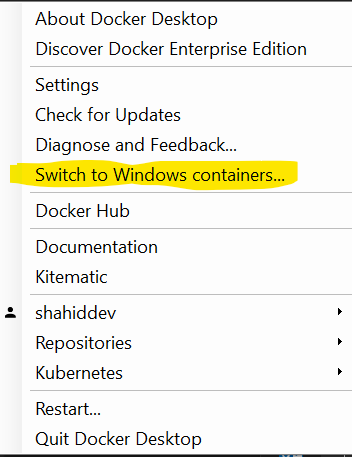
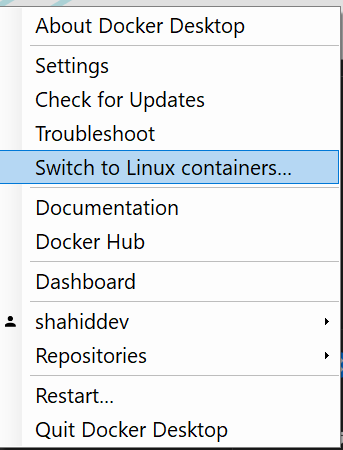
update switch containers image

diff --git a/Docker/1.Basics.md b/Docker/1.Basics.md
@@ -7,9 +7,13 @@ By the end of this section you should be able to pull images, run them and acces
 
 ## Exploring Docker command line
 
-Before you start ensure your Docker for Windows is set to Linux containers. Right-click the Moby icon in the system tray, the menu option should read "Switch to Windows containers" which indicates you are already set to Linux containers (the default when you first install the tooling).
+Before you start ensure your Docker for Windows is set to Linux containers. 
+Right-click the Moby icon in the system tray, the menu option should read "Switch to Windows containers" which indicates you are already set to Linux containers (the default when you first install the tooling).
+
+If you see "Switch to Linux containers" this indicates you are in Windows containers mode and need to select the option.
 
 ![Switch to Linux containers](images/DockerEnsureLinuxContainers.png)
+
 
 ## Explore Docker commands
 
